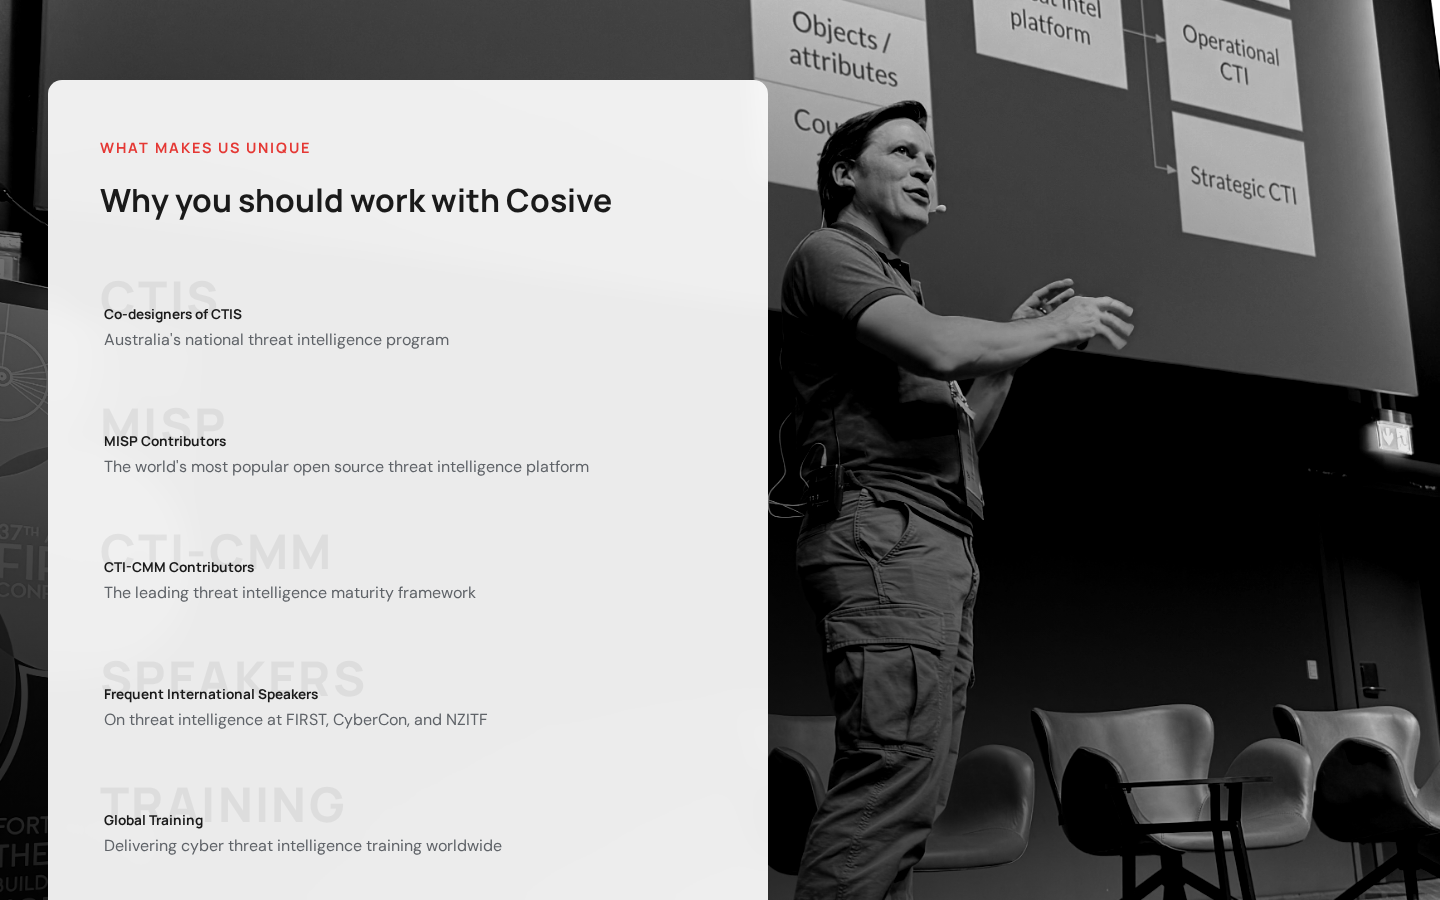
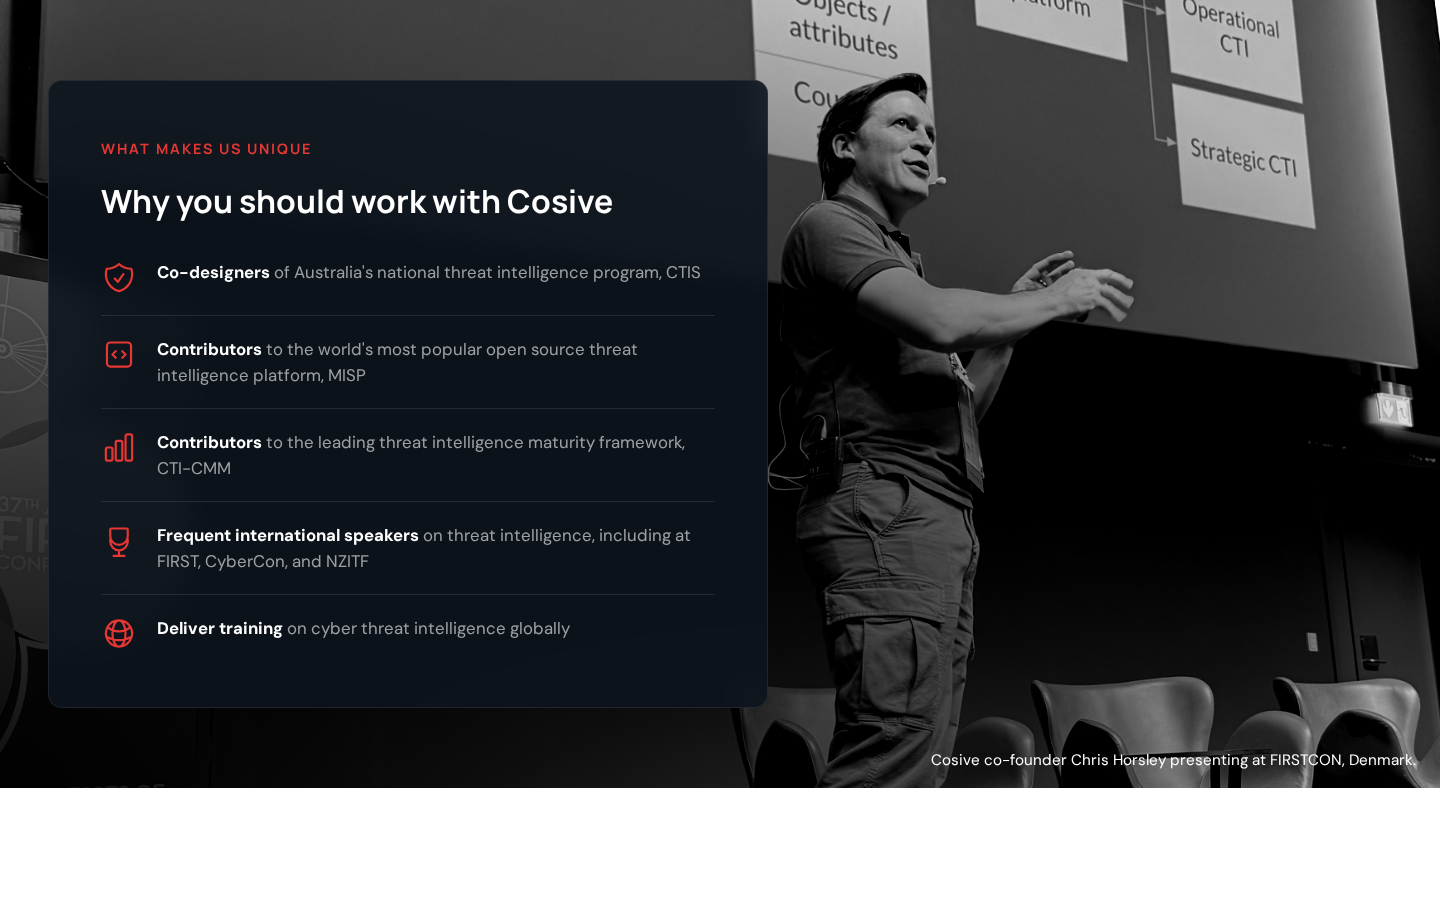
Add unique Concept D: dark glassmorphism card variant
Same icon list layout as C but with dark card background,
white text, and subtle border. Overview page updated to 4 concepts.

diff --git a/unique-concept-d.html b/unique-concept-d.html
@@ -3,7 +3,7 @@
 <head>
 <meta charset="UTF-8">
 <meta name="viewport" content="width=device-width, initial-scale=1.0">
-<title>Cosive — "What makes us unique" Concept D: Typographic Watermark Blocks</title>
+<title>Cosive — "What makes us unique" Concept D: Dark Card</title>
 <link href="https://fonts.googleapis.com" rel="preconnect">
 <link href="https://fonts.gstatic.com" rel="preconnect" crossorigin="anonymous">
 <link href="https://fonts.googleapis.com/css2?family=Manrope:wght@300;400;500;600;700;800&family=DM+Sans:wght@300;400;500;700&display=swap" rel="stylesheet">
@@ -81,13 +81,14 @@
   }
 
   .credentials-box {
-    background: rgba(255, 255, 255, 0.92);
+    background: rgba(14, 20, 28, 0.88);
     backdrop-filter: blur(12px);
     -webkit-backdrop-filter: blur(12px);
     border-radius: 14px;
     padding: 56px 52px;
     max-width: 720px;
     margin-left: calc(25vw - 360px);
+    border: 1px solid rgba(255, 255, 255, 0.08);
   }
 
   .credentials-label {
@@ -104,8 +105,8 @@
     font-family: var(--font-heading);
     font-size: 2rem;
     font-weight: 700;
-    margin-bottom: 36px;
-    color: var(--color-text);
+    margin-bottom: 32px;
+    color: var(--color-white);
   }
 
   .credentials-caption {
@@ -117,52 +118,54 @@
     color: #fff;
   }
 
-  /* ── Concept D: Typographic Watermark Blocks ── */
-  .watermark-blocks {
+  /* ── Concept D: Icon List (Dark) ── */
+  .icon-credentials {
     display: flex;
     flex-direction: column;
-    gap: 24px;
+    gap: 0;
   }
 
-  .watermark-block {
-    position: relative;
-    padding: 12px 0;
-    overflow: hidden;
+  .icon-item {
+    display: flex;
+    align-items: flex-start;
+    gap: 20px;
+    padding: 20px 0;
+    border-bottom: 1px solid rgba(255, 255, 255, 0.1);
   }
 
-  .watermark-bg {
-    font-family: var(--font-heading);
-    font-size: 3rem;
-    font-weight: 800;
-    text-transform: uppercase;
-    letter-spacing: 0.05em;
-    color: var(--color-text);
-    opacity: 0.06;
-    line-height: 1;
-    white-space: nowrap;
-    user-select: none;
-    pointer-events: none;
+  .icon-item:first-child {
+    padding-top: 0;
   }
 
-  .watermark-content {
-    position: relative;
-    margin-top: -18px;
-    padding-left: 4px;
+  .icon-item:last-child {
+    border-bottom: none;
+    padding-bottom: 0;
   }
 
-  .watermark-label {
-    font-family: var(--font-heading);
-    font-size: 0.85rem;
-    font-weight: 700;
-    color: var(--color-text);
-    margin-bottom: 2px;
+  .icon-item-icon {
+    width: 36px;
+    height: 36px;
+    flex-shrink: 0;
+    color: var(--color-red);
+    padding-top: 1px;
   }
 
-  .watermark-desc {
+  .icon-item-icon svg {
+    width: 100%;
+    height: 100%;
+  }
+
+  .icon-item-text {
+    flex: 1;
     font-family: var(--font-body);
-    font-size: 1rem;
-    color: var(--color-text-secondary);
+    font-size: 1.05rem;
     line-height: 1.55;
+    color: rgba(255, 255, 255, 0.6);
+  }
+
+  .icon-item-text strong {
+    color: var(--color-white);
+    font-weight: 700;
   }
 
   /* ── Responsive ── */
@@ -191,8 +194,9 @@
       margin-left: 0;
       padding: 32px 24px;
       border-radius: 0;
-      background: var(--color-surface);
+      background: #0e141c;
       backdrop-filter: none;
+      border: none;
     }
     .credentials-bg { order: 1; }
     .credentials-caption {
@@ -204,13 +208,6 @@
       background: #121212;
     }
     .credentials-inner { order: 3; }
-
-    .watermark-bg {
-      font-size: 2rem;
-    }
-    .watermark-content {
-      margin-top: -12px;
-    }
   }
 </style>
 </head>
@@ -225,41 +222,36 @@
       <div class="credentials-box">
         <div class="credentials-label">What makes us unique</div>
         <h2>Why you should work with Cosive</h2>
-        <div class="watermark-blocks">
-          <div class="watermark-block">
-            <div class="watermark-bg">CTIS</div>
-            <div class="watermark-content">
-              <div class="watermark-label">Co-designers of CTIS</div>
-              <div class="watermark-desc">Australia's national threat intelligence program</div>
+        <div class="icon-credentials">
+          <div class="icon-item">
+            <div class="icon-item-icon">
+              <svg xmlns="http://www.w3.org/2000/svg" fill="none" viewBox="0 0 24 24" stroke-width="1.5" stroke="currentColor"><path stroke-linecap="round" stroke-linejoin="round" d="M9 12.75 11.25 15 15 9.75m-3-7.036A11.959 11.959 0 0 1 3.598 6 11.99 11.99 0 0 0 3 9.749c0 5.592 3.824 10.29 9 11.623 5.176-1.332 9-6.03 9-11.622 0-1.31-.21-2.571-.598-3.751h-.152c-3.196 0-6.1-1.248-8.25-3.285Z" /></svg>
             </div>
+            <div class="icon-item-text"><strong>Co-designers</strong> of Australia's national threat intelligence program, CTIS</div>
           </div>
-          <div class="watermark-block">
-            <div class="watermark-bg">MISP</div>
-            <div class="watermark-content">
-              <div class="watermark-label">MISP Contributors</div>
-              <div class="watermark-desc">The world's most popular open source threat intelligence platform</div>
+          <div class="icon-item">
+            <div class="icon-item-icon">
+              <svg xmlns="http://www.w3.org/2000/svg" fill="none" viewBox="0 0 24 24" stroke-width="1.5" stroke="currentColor"><path stroke-linecap="round" stroke-linejoin="round" d="M14.25 9.75 16.5 12l-2.25 2.25m-4.5 0L7.5 12l2.25-2.25M6 20.25h12A2.25 2.25 0 0 0 20.25 18V6A2.25 2.25 0 0 0 18 3.75H6A2.25 2.25 0 0 0 3.75 6v12A2.25 2.25 0 0 0 6 20.25Z" /></svg>
             </div>
+            <div class="icon-item-text"><strong>Contributors</strong> to the world's most popular open source threat intelligence platform, MISP</div>
           </div>
-          <div class="watermark-block">
-            <div class="watermark-bg">CTI-CMM</div>
-            <div class="watermark-content">
-              <div class="watermark-label">CTI-CMM Contributors</div>
-              <div class="watermark-desc">The leading threat intelligence maturity framework</div>
+          <div class="icon-item">
+            <div class="icon-item-icon">
+              <svg xmlns="http://www.w3.org/2000/svg" fill="none" viewBox="0 0 24 24" stroke-width="1.5" stroke="currentColor"><path stroke-linecap="round" stroke-linejoin="round" d="M3 13.125C3 12.504 3.504 12 4.125 12h2.25c.621 0 1.125.504 1.125 1.125v6.75C7.5 20.496 6.996 21 6.375 21h-2.25A1.125 1.125 0 0 1 3 19.875v-6.75ZM9.75 8.625c0-.621.504-1.125 1.125-1.125h2.25c.621 0 1.125.504 1.125 1.125v11.25c0 .621-.504 1.125-1.125 1.125h-2.25a1.125 1.125 0 0 1-1.125-1.125V8.625ZM16.5 4.125c0-.621.504-1.125 1.125-1.125h2.25C20.496 3 21 3.504 21 4.125v15.75c0 .621-.504 1.125-1.125 1.125h-2.25a1.125 1.125 0 0 1-1.125-1.125V4.125Z" /></svg>
             </div>
+            <div class="icon-item-text"><strong>Contributors</strong> to the leading threat intelligence maturity framework, CTI-CMM</div>
           </div>
-          <div class="watermark-block">
-            <div class="watermark-bg">SPEAKERS</div>
-            <div class="watermark-content">
-              <div class="watermark-label">Frequent International Speakers</div>
-              <div class="watermark-desc">On threat intelligence at FIRST, CyberCon, and NZITF</div>
+          <div class="icon-item">
+            <div class="icon-item-icon">
+              <svg xmlns="http://www.w3.org/2000/svg" fill="none" viewBox="0 0 24 24" stroke-width="1.5" stroke="currentColor"><path stroke-linecap="round" stroke-linejoin="round" d="M12 18.75a6 6 0 0 0 6-6v-1.5m-6 7.5a6 6 0 0 1-6-6v-1.5m6 7.5v3.75m-3.75 0h7.5M12 15c-3.309 0-6-2.691-6-6V4.5a.75.75 0 0 1 .75-.75h10.5a.75.75 0 0 1 .75.75V9c0 3.309-2.691 6-6 6Z" /></svg>
             </div>
+            <div class="icon-item-text"><strong>Frequent international speakers</strong> on threat intelligence, including at FIRST, CyberCon, and NZITF</div>
           </div>
-          <div class="watermark-block">
-            <div class="watermark-bg">TRAINING</div>
-            <div class="watermark-content">
-              <div class="watermark-label">Global Training</div>
-              <div class="watermark-desc">Delivering cyber threat intelligence training worldwide</div>
+          <div class="icon-item">
+            <div class="icon-item-icon">
+              <svg xmlns="http://www.w3.org/2000/svg" fill="none" viewBox="0 0 24 24" stroke-width="1.5" stroke="currentColor"><path stroke-linecap="round" stroke-linejoin="round" d="M12 21a9.004 9.004 0 0 0 8.716-6.747M12 21a9.004 9.004 0 0 1-8.716-6.747M12 21c2.485 0 4.5-4.03 4.5-9S14.485 3 12 3m0 18c-2.485 0-4.5-4.03-4.5-9S9.515 3 12 3m0 0a8.997 8.997 0 0 1 7.843 4.582M12 3a8.997 8.997 0 0 0-7.843 4.582m15.686 0A11.953 11.953 0 0 1 12 10.5c-2.998 0-5.74-1.1-7.843-2.918m15.686 0A8.959 8.959 0 0 1 21 12c0 .778-.099 1.533-.284 2.253m0 0A17.919 17.919 0 0 1 12 16.5a17.92 17.92 0 0 1-8.716-2.247m0 0A8.966 8.966 0 0 1 3 12c0-1.264.26-2.466.733-3.559" /></svg>
             </div>
+            <div class="icon-item-text"><strong>Deliver training</strong> on cyber threat intelligence globally</div>
           </div>
         </div>
       </div>

diff --git a/unique-concepts.html b/unique-concepts.html
@@ -245,13 +245,14 @@
 <div class="page-header">
   <div class="page-label">Design review</div>
   <h1 class="page-title">"What makes us unique" card concepts</h1>
-  <p class="page-subtitle">Three alternative presentations for the 5 credential items inside the frosted glass card. The surrounding design (background image, card position, glassmorphism) stays the same across all concepts.</p>
+  <p class="page-subtitle">Four alternative presentations for the 5 credential items inside the frosted glass card. The surrounding design (background image, card position, glassmorphism) stays the same across all concepts.</p>
 </div>
 
 <nav class="concept-nav">
   <a href="#concept-a">Concept A</a>
   <a href="#concept-b">Concept B</a>
   <a href="#concept-c">Concept C</a>
+  <a href="#concept-d">Concept D</a>
 </nav>
 
 <div class="concepts">
@@ -327,6 +328,32 @@
     </div>
     <a class="concept-preview" href="unique-concept-c.html">
       <img src="previews/unique-concept-c.png" alt="Concept C preview">
+      <div class="preview-bar">
+        <span>View full concept</span>
+        <svg xmlns="http://www.w3.org/2000/svg" fill="none" viewBox="0 0 24 24" stroke-width="2" stroke="currentColor"><path stroke-linecap="round" stroke-linejoin="round" d="M13.5 4.5 21 12m0 0-7.5 7.5M21 12H3" /></svg>
+      </div>
+    </a>
+  </div>
+
+  <div class="concept" id="concept-d">
+    <div class="concept-header">
+      <span class="concept-letter">D</span>
+      <h2 class="concept-name">Dark Card</h2>
+    </div>
+    <div class="concept-info">
+      <div class="concept-info-left">
+        <p class="concept-description">Same icon list layout as Concept C, but with a dark glassmorphism card instead of light. White heading and bold keywords, muted light description text, and red icons. The dark card blends more naturally with the background photo while still standing out.</p>
+        <div class="concept-traits">
+          <span class="trait">Dark glassmorphism</span>
+          <span class="trait">Light-on-dark text</span>
+          <span class="trait">Red icons</span>
+          <span class="trait">Icon list</span>
+        </div>
+      </div>
+      <a class="concept-cta" href="unique-concept-d.html">View Concept <svg xmlns="http://www.w3.org/2000/svg" fill="none" viewBox="0 0 24 24" stroke-width="2.5" stroke="currentColor"><path stroke-linecap="round" stroke-linejoin="round" d="M13.5 4.5 21 12m0 0-7.5 7.5M21 12H3" /></svg></a>
+    </div>
+    <a class="concept-preview" href="unique-concept-d.html">
+      <img src="previews/unique-concept-d.png" alt="Concept D preview">
       <div class="preview-bar">
         <span>View full concept</span>
         <svg xmlns="http://www.w3.org/2000/svg" fill="none" viewBox="0 0 24 24" stroke-width="2" stroke="currentColor"><path stroke-linecap="round" stroke-linejoin="round" d="M13.5 4.5 21 12m0 0-7.5 7.5M21 12H3" /></svg>
